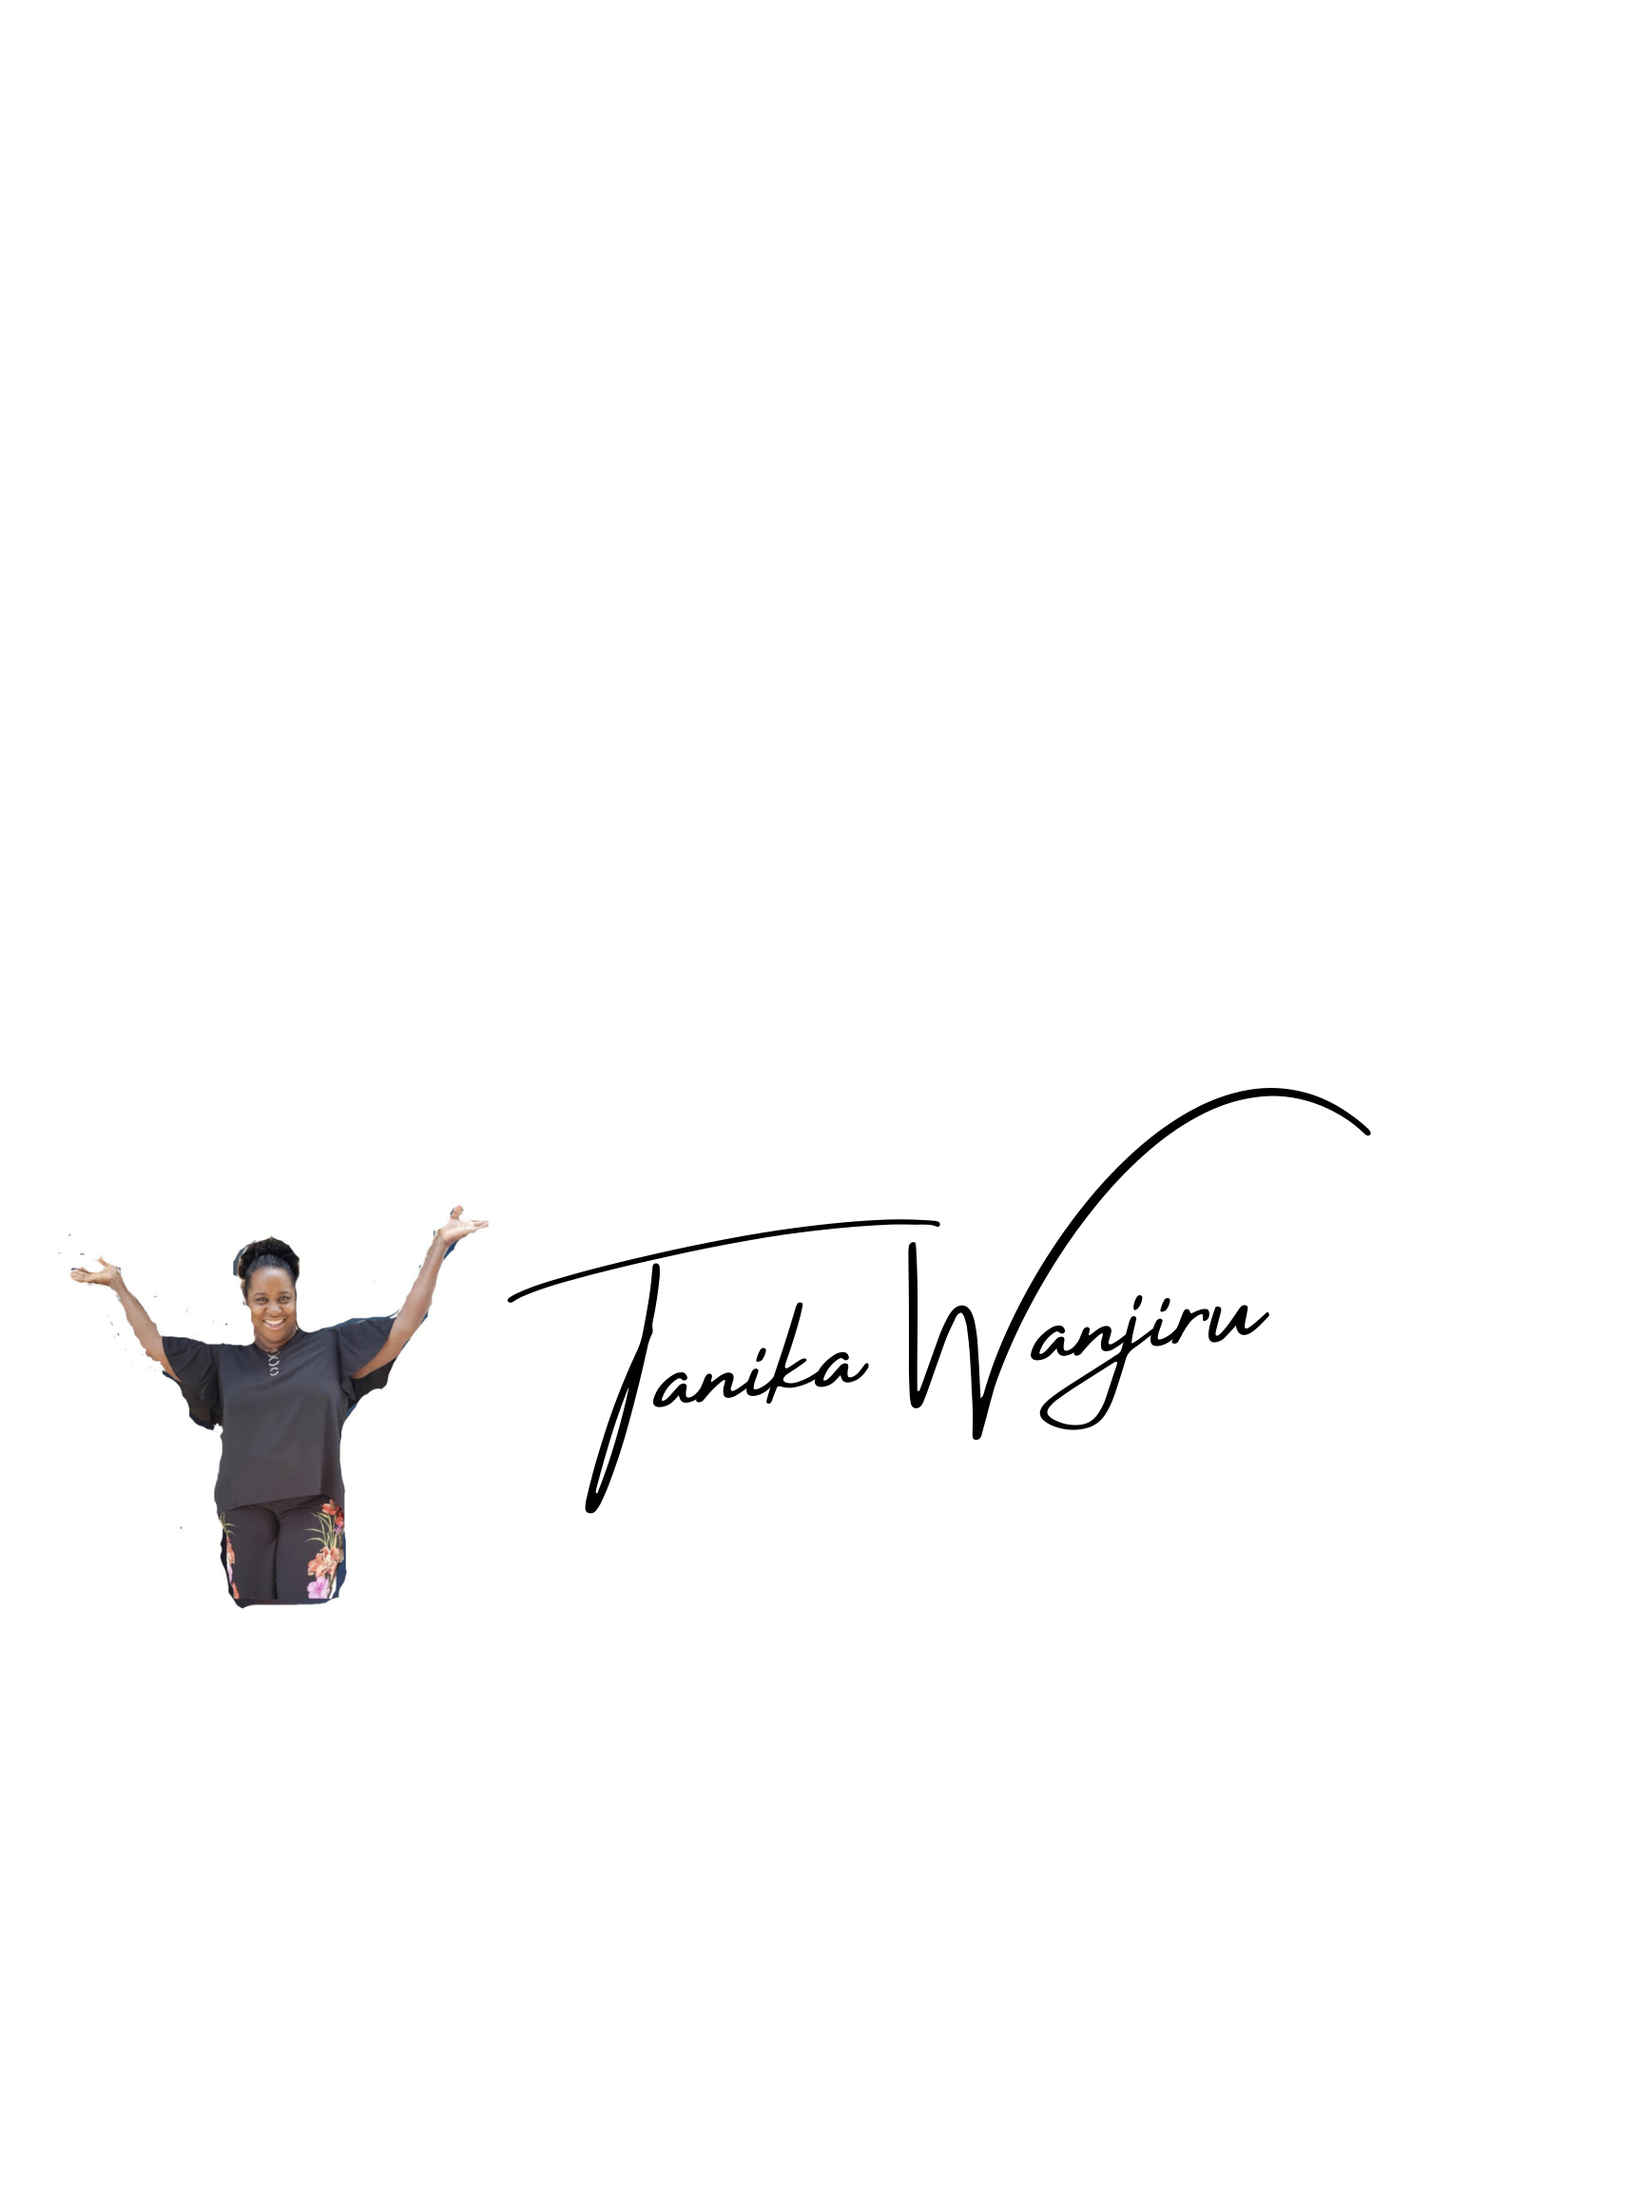
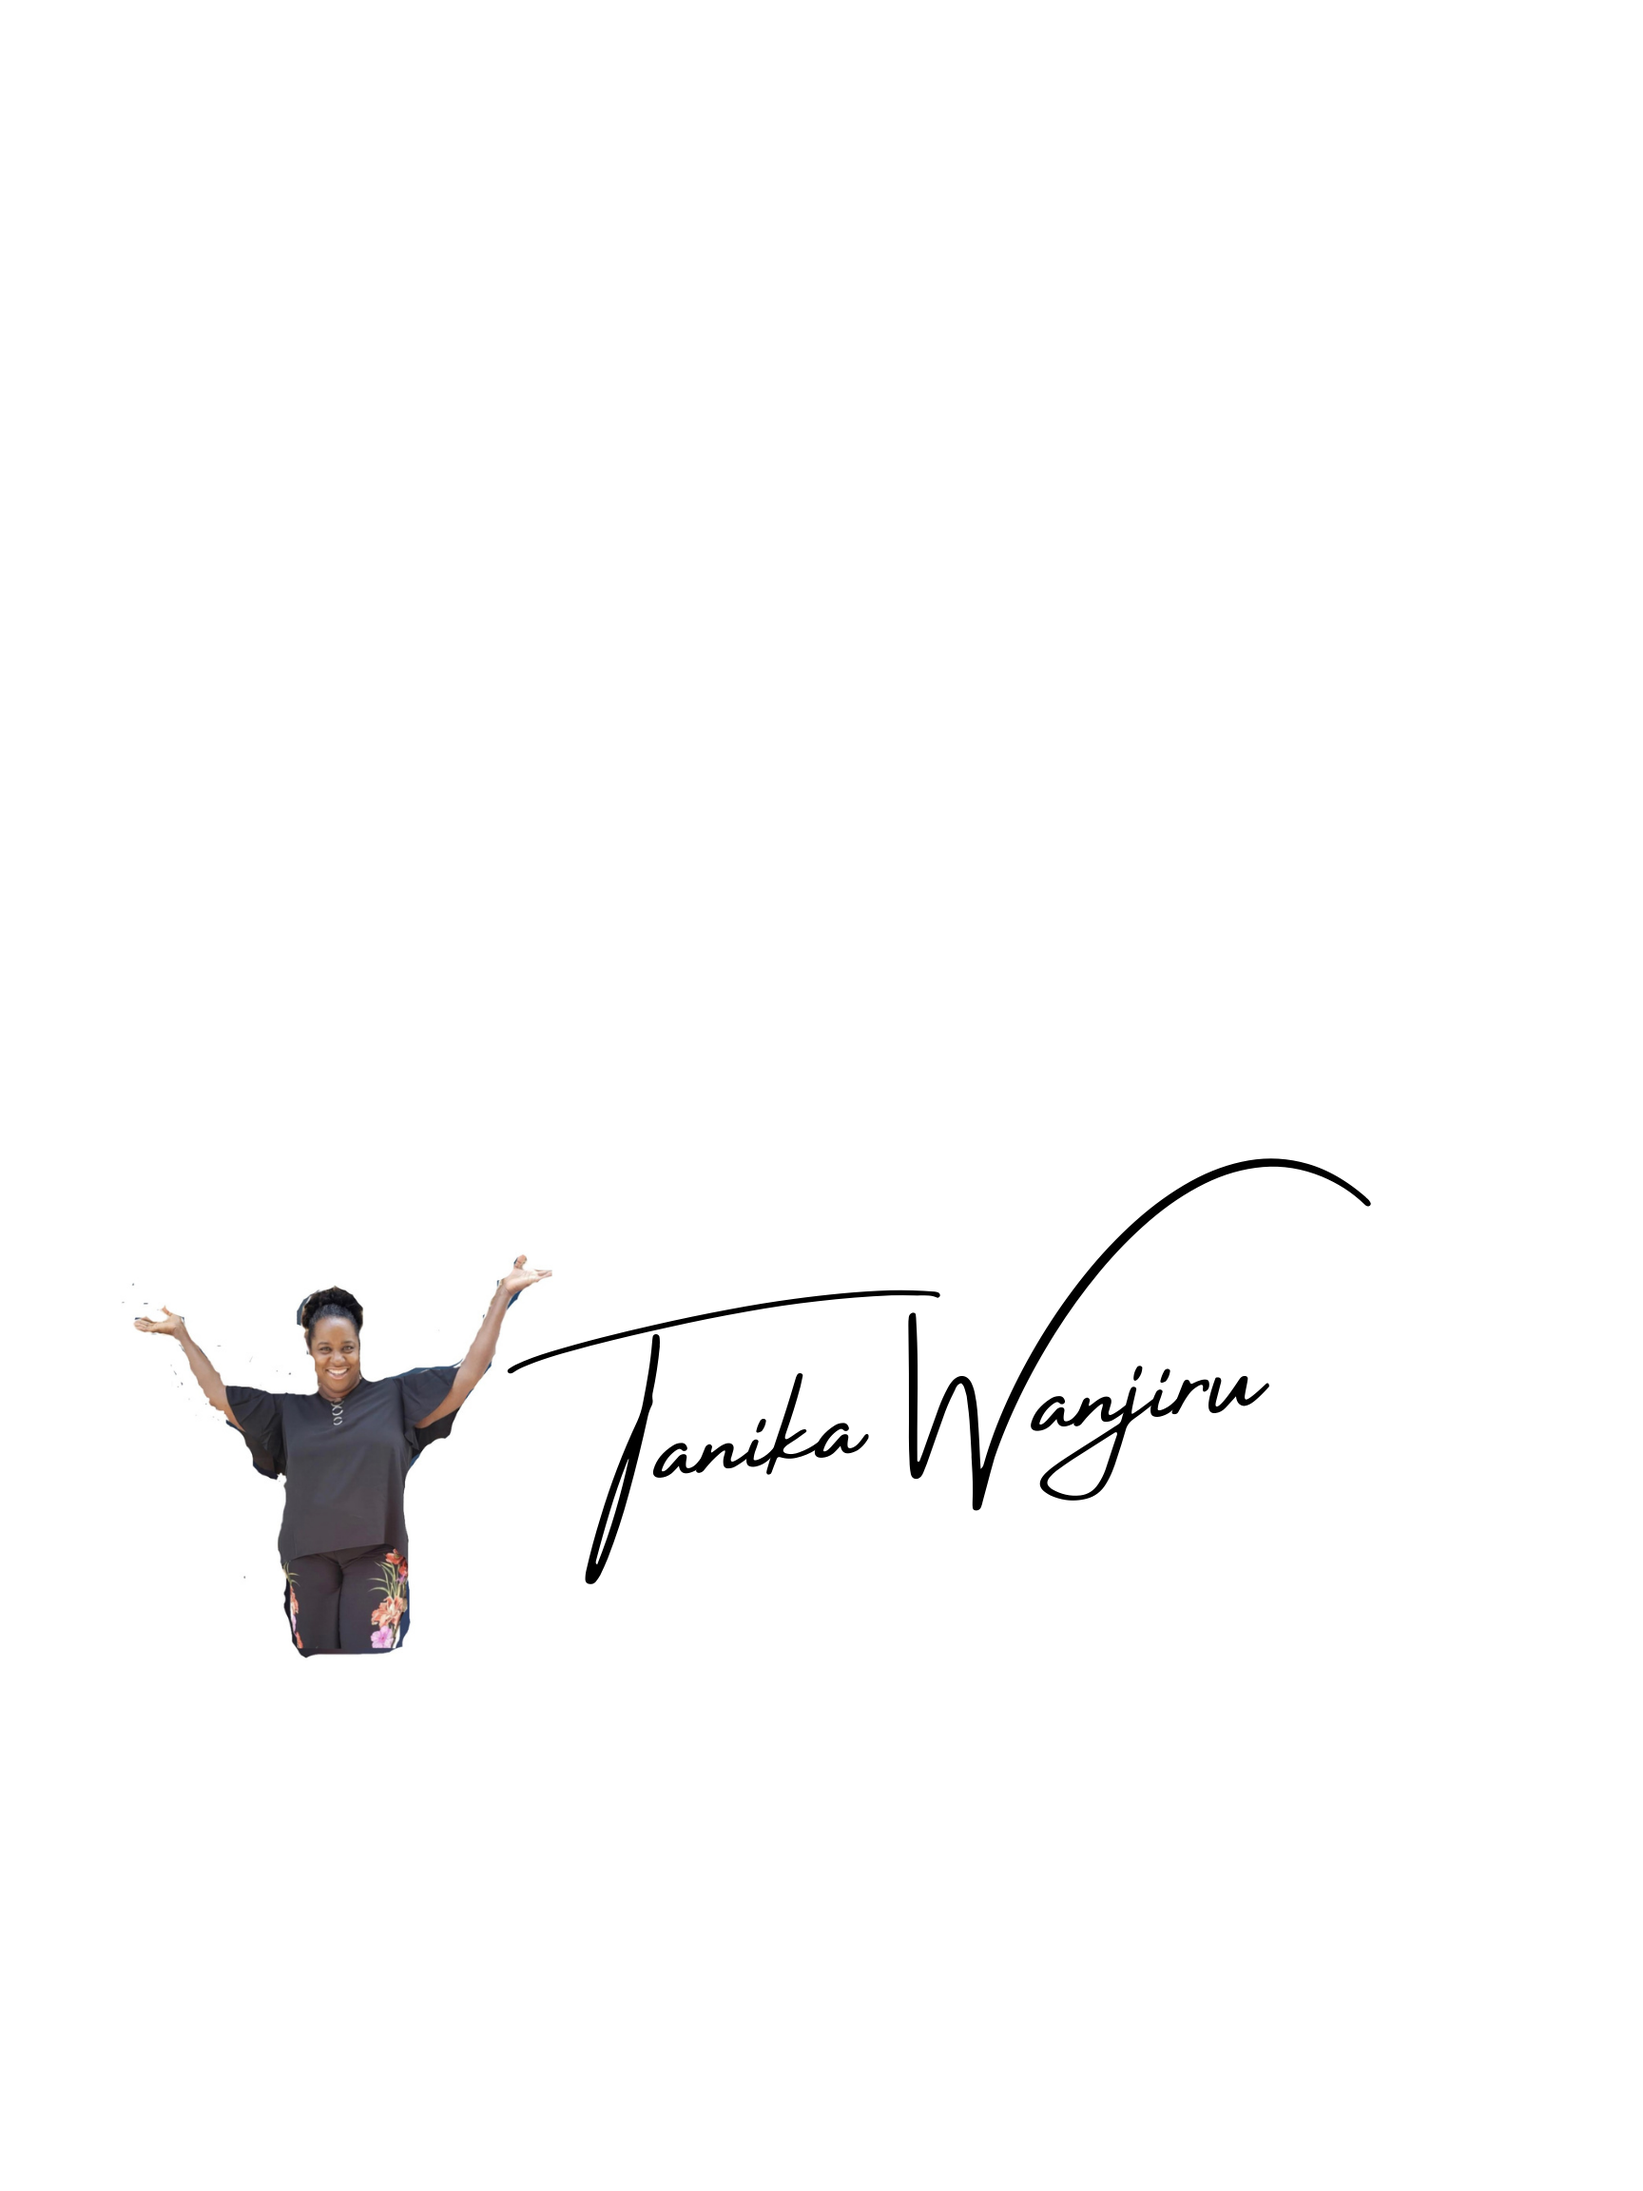
54

Changed region(s): [[0.3438, 0.5, 0.8125, 0.7188], [0.0312, 0.5312, 0.3438, 0.7812], [0.5312, 0.5625, 0.5625, 0.5938]]

diff --git a/about.css b/about.css
@@ -21,24 +21,26 @@
 
 /* Add a color to the active/current link */
 .topnav a.active {
-  background-color: #d30ca8;
+  background-color: #04AA6D;
   color: white;
 }
 
+.h2 {text-align: center;}
+p {text-align: center;
+  color: red;
+  
+  
 
-
-
-
-
+}
  
 @import url('https://fonts.googleapis.com/css?family=Barlow');
 
 body {
 	background: #750450 url(/IMG/Tanika.png) no-repeat center center fixed; 
-	-webkit-background-size: cover;
-	-moz-background-size: cover;
-	-o-background-size: cover;
-	background-size: 800px;
+	-webkit-background-size: 75%;
+	-moz-background-size: 75%;
+	-o-background-size: 75%;
+	background-size: 75%;
 	font-family: 'Barlow', sans-serif;
 }
 .container {
@@ -57,7 +59,7 @@ h1.main, p.demos {
 }
 .sp-container {
 	position: fixed;
-	top: 0px;
+	top: 55px;
 	left: 0px;
 	width: 100%;
 	height: 100%;
@@ -81,7 +83,7 @@ h1.main, p.demos {
 	line-height: 100px;
 	height: 90px;
 	margin-top: -50px;
-	font-size: 90px;
+	font-size: 70px;
 	width: 100%;
 	text-align: center;
 	color: transparent;
@@ -109,40 +111,13 @@ h1.main, p.demos {
 	animation-delay: 6s;
 }
 .sp-container h2.frame-4 {
-	font-size: 200px;
+	font-size: 90px;
 	-webkit-animation-delay: 9s;
 	-moz-animation-delay: 9s;
 	-ms-animation-delay: 9s;
 	animation-delay: 9s;
 }
-.sp-container h2.frame-5 {
-	-webkit-animation: none;
-	-moz-animation: none;
-	-ms-animation: none;
-	animation: none;
-	color: transparent;
-	text-shadow: 0px 0px 1px #fff;
-}
-.sp-container h2.frame-5 span {
-	-webkit-animation: blurFadeIn 3s ease-in 12s backwards;
-	-moz-animation: blurFadeIn 1s ease-in 12s backwards;
-	-ms-animation: blurFadeIn 3s ease-in 12s backwards;
-	animation: blurFadeIn 3s ease-in 12s backwards;
-	color: transparent;
-	text-shadow: 0px 0px 1px #fff;
-}
-.sp-container h2.frame-5 span:nth-child(2) {
-	-webkit-animation-delay: 13s;
-	-moz-animation-delay: 13s;
-	-ms-animation-delay: 13s;
-	animation-delay: 13s;
-}
-.sp-container h2.frame-5 span:nth-child(3) {
-	-webkit-animation-delay: 14s;
-	-moz-animation-delay: 14s;
-	-ms-animation-delay: 14s;
-	animation-delay: 14s;
-}
+ 
 .sp-globe {
 	position: absolute;
 	width: 282px;

diff --git a/about.html b/about.html
@@ -9,20 +9,30 @@
 
 		
 
-<head></head>
+
+
+ 
+
+
 	<link rel="Stylesheet" href="about.css">
 
-	 
 	<div class="topnav">
-		<a class="active" href="/index.html">Home</a>
-		<a href="/service.html">Services</a>
-		<a href="/contact.html">Contact</a>
-		<a href="/Extras/extraextra.html">Extra</a>
-	  </div>
-
+		<a class="active" href="#home">Home</a>
+		<a href="#news">News</a>
+		<a href="#contact">Contact</a>
+		<a href="#about">About</a>
+	  </div>	 
 
 	
 	
+	
+	 <h2 class="h2">About Me</h2>
+	 <p>My name is</p>
+	  
+	  
+
+<body> 
+	 
 	<div class="sp-container">
 		<div class="sp-content">
 			<div class="sp-globe"></div>
@@ -30,21 +40,10 @@
 			<h2 class="frame-2">Mother</h2>
 			<h2 class="frame-3">Designer</h2>
 			<h2 class="frame-4">Web Developer</h2>
-			<h2 class="frame-5">
-				<span>Brand:</span>
-				<span>Ms. </span>
-				<span>Freedompreneur</span>
-			</h2>
+	
 		
 		</div>
 	</div>
-	 
-	  
-	  
-
-<body> 
-	 
-		 
 	 
 	  
 	   

diff --git a/about.js b/about.js
@@ -1,10 +1,1 @@
- $('.button').click(function(){
-    var buttonId = $(this).attr('id');
-    $('#modal-container').removeAttr('class').addClass(buttonId);
-    $('body').addClass('modal-active');
-  })
   
-  $('#modal-container').click(function(){
-    $(this).addClass('out');
-    $('body').removeClass('modal-active');
-  });
